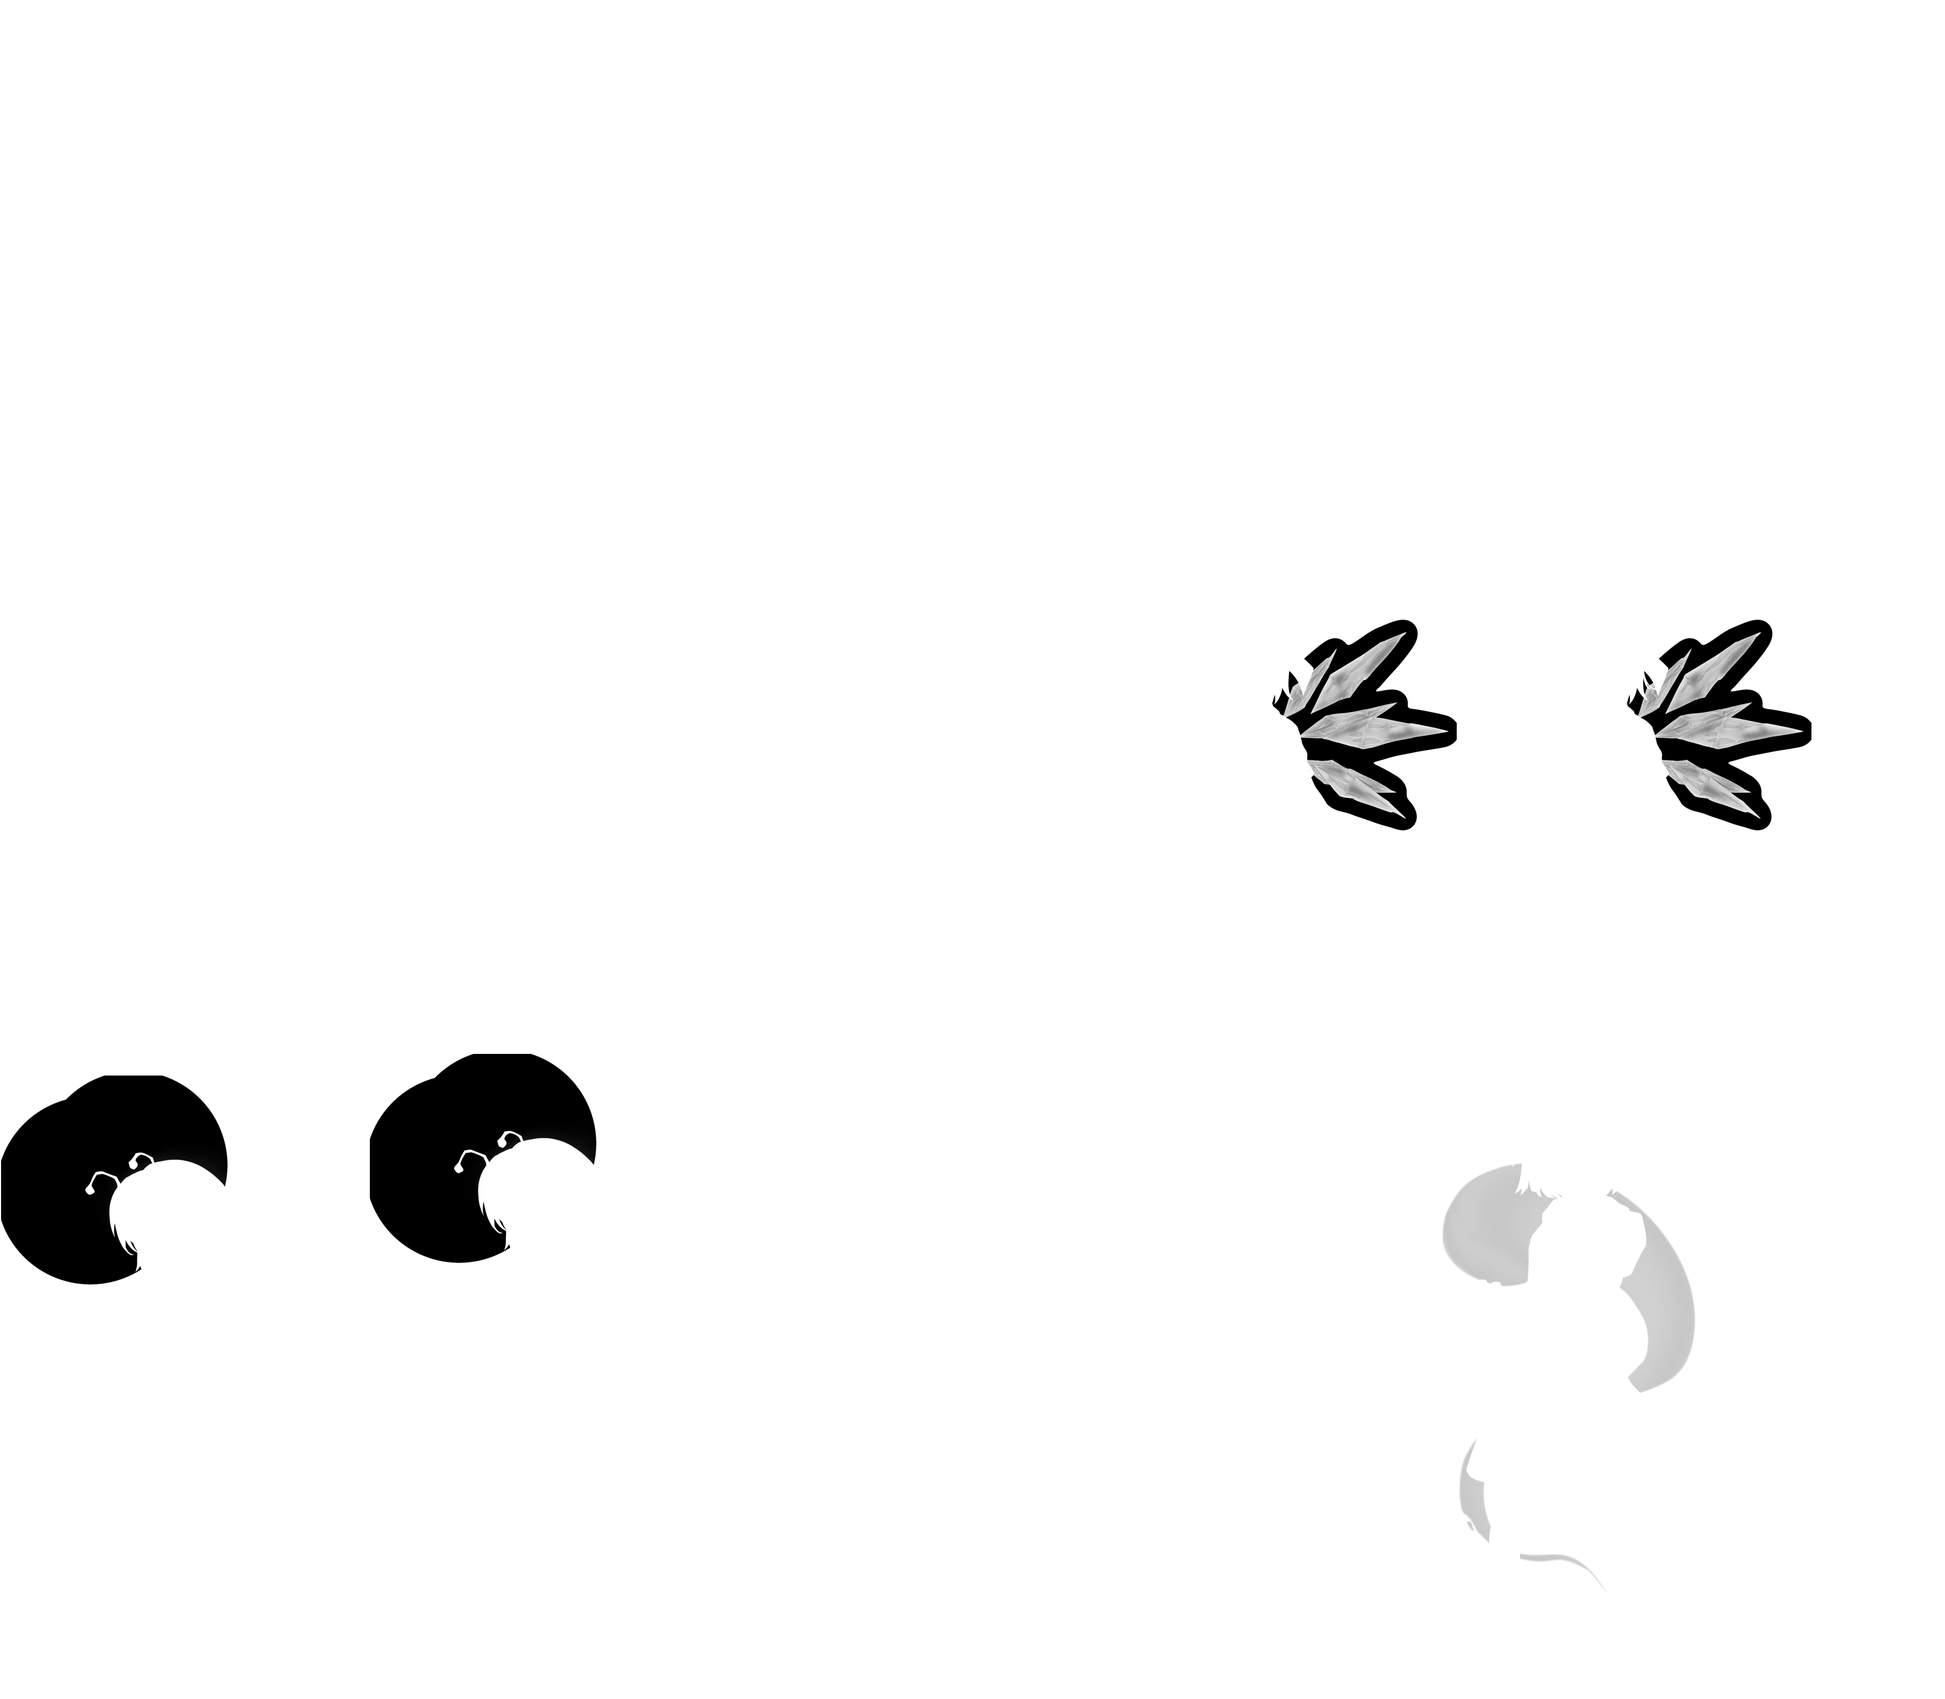
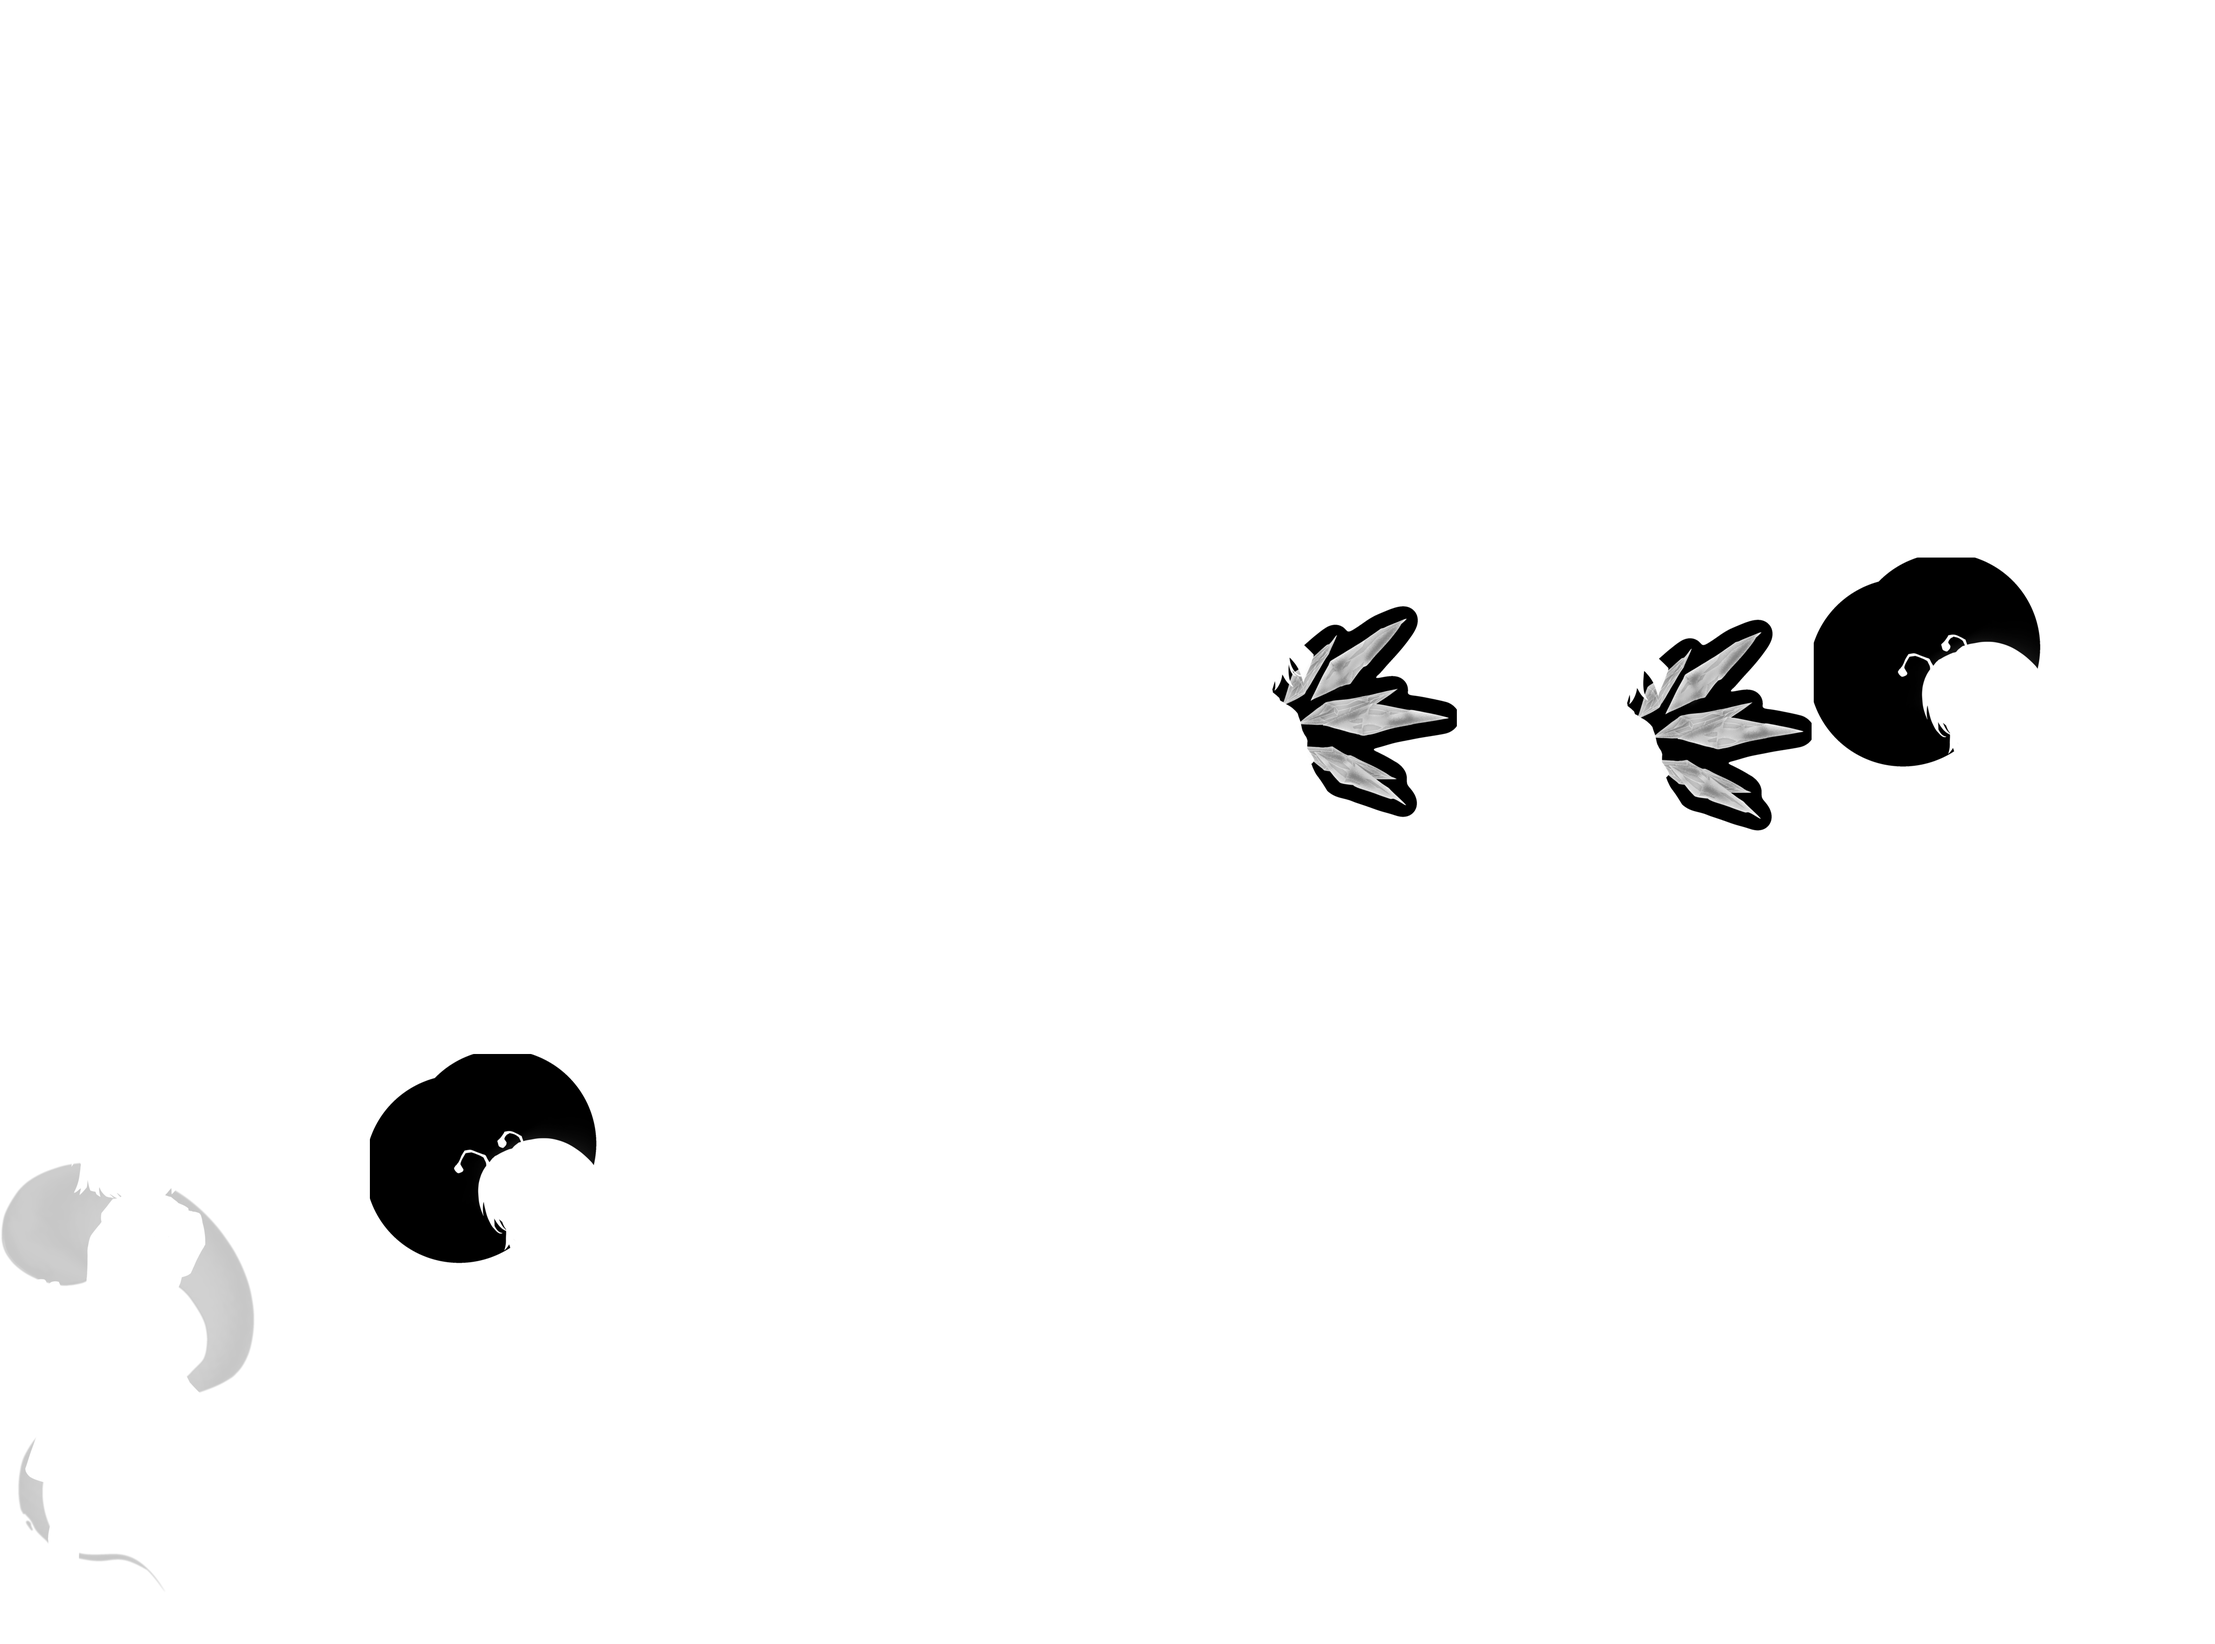
cirno angry face; elly beaten variant

diff --git a/src/stages/stage6_events.c b/src/stages/stage6_events.c
@@ -28,7 +28,7 @@ static Dialog *stage6_dialog_pre_final(void) {
 	PlayerMode *pm = global.plr.mode;
 	Dialog *d = dialog_create();
 	dialog_set_char(d, DIALOG_LEFT, pm->character->lower_name, "normal", NULL);
-	dialog_set_char(d, DIALOG_RIGHT, "elly", "angry", NULL);
+	dialog_set_char(d, DIALOG_RIGHT, "elly", "angry", "beaten");
 	pm->dialog->stage6_pre_final(d);
 	return d;
 }
@@ -2627,6 +2627,7 @@ static void elly_toe_laser_logic(Laser *l, int t) {
 void elly_theory(Boss *b, int time) {
 	if(time == EVENT_BIRTH) {
 		global.shake_view = 10;
+		boss_set_portrait(b, get_sprite("dialog/elly_variant_beaten"), get_sprite("dialog/elly_face_angry"));
 		return;
 	}
 

diff --git a/src/dialog/marisa.c b/src/dialog/marisa.c
@@ -18,6 +18,7 @@ DIALOG_SCRIPT(marisa_stage1_pre_boss) {
 	LEFT("It’s gotten pretty cold ’round here. I wish I brought a sweater.");
 	RIGHT("Every time there’s an incident, we fairies show up to stop weak humans like you from spoiling the fun!");
 	LEFT("So, you’re callin’ me weak?");
+	RIGHT_FACE(angry);
 	RIGHT("Weak to cold for sure! I’ll turn you into a human-sized popsicle!");
 	LEFT_FACE(smug);
 	LEFT("I’d like to see ya try.");

diff --git a/src/dialog/youmu.c b/src/dialog/youmu.c
@@ -20,6 +20,7 @@ DIALOG_SCRIPT(youmu_stage1_pre_boss) {
 	RIGHT("What’s that? You think you can’t get cold?");
 	LEFT_FACE(unamused);
 	LEFT("I don’t just think that, I know that. I’m half-phantom, so even my body is cold.");
+	RIGHT_FACE(angry);
 	RIGHT("I’ll take that as a challenge! Prepare to be chilled in a way no ghost can match!");
 	LEFT_FACE(normal);
 	RIGHT("Let’s see if phantoms are good as soft-serve ice cream!");

diff --git a/src/dialog/reimu.c b/src/dialog/reimu.c
@@ -19,6 +19,7 @@ DIALOG_SCRIPT(reimu_stage1_pre_boss) {
 	RIGHT("Hey, shrine maiden! Am I making you cold?");
 	LEFT_FACE(unamused);
 	LEFT("Not as much as you’re just being a pest. I’m too busy to play games with fairies.");
+	RIGHT_FACE(angry);
 	RIGHT("That’s not true! There is always time to have some fun!");
 	RIGHT("Prepare to catch an air conditioner cold on my ice playground!");
 }
